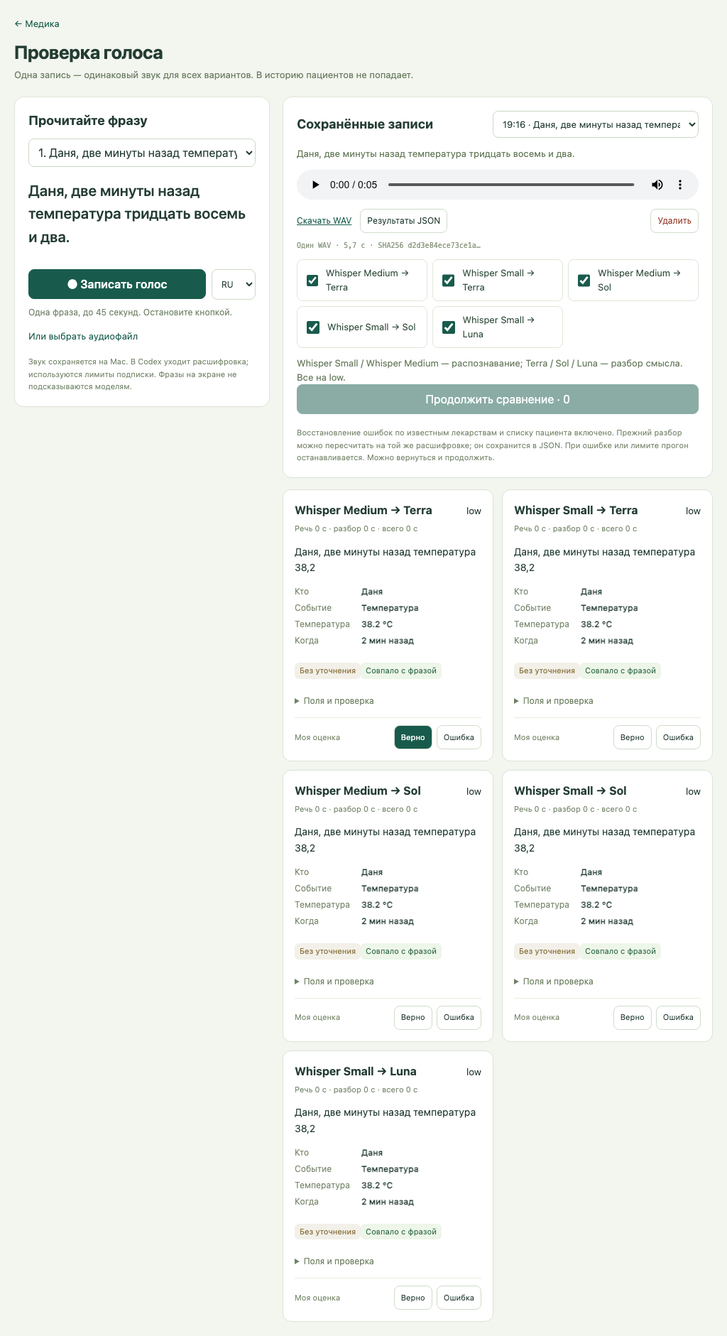
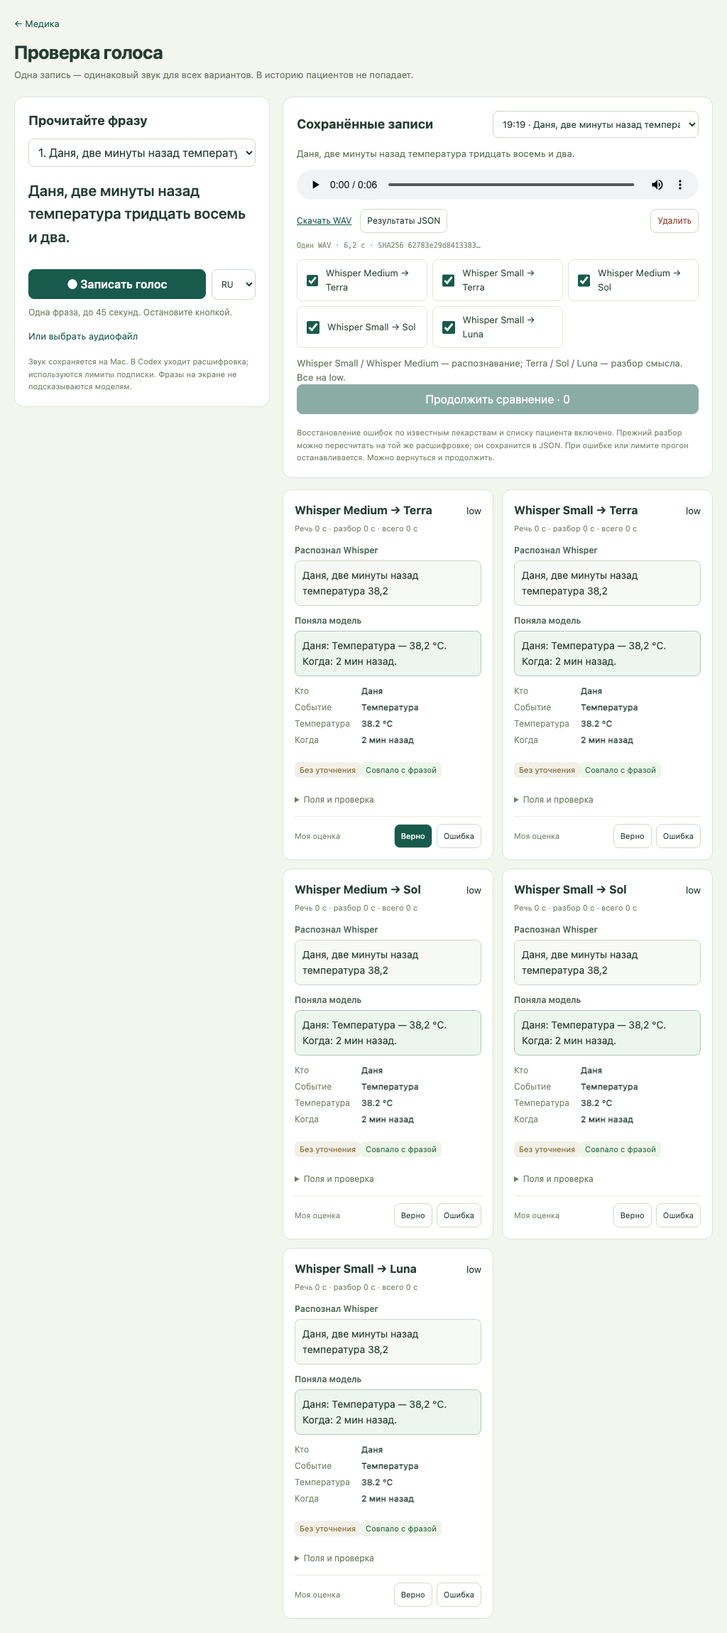
Show Whisper transcript and model interpretation as two text fields

diff --git a/site/public/voice-lab.js b/site/public/voice-lab.js
@@ -4,6 +4,7 @@ let state,token='',recording=null,capturedAt='',phraseId=localStorage.getItem('v
 let selected;try{selected=new Set(JSON.parse(localStorage.getItem('voice-lab-variants'))||['small-terra','medium-terra']);}catch{selected=new Set(['small-terra','medium-terra']);}
 const kinds={temperature:'Температура',medication:'Лекарство',retching:'Позывы к рвоте',vomiting:'Рвота',diarrhea:'Диарея',inhalation:'Ингаляция',other:'Другое'},people={'lab-danya':'Даня','lab-alice':'Алиса','lab-mom':'Мама','lab-dad':'Папа'};
 const secs=ms=>(ms/1000).toLocaleString('ru-RU',{maximumFractionDigits:1})+' с';
+function fitComparisonFields(){root.querySelectorAll('[data-comparison]').forEach(field=>{field.style.height='auto';field.style.height=field.scrollHeight+'px';});}
 const current=()=>state.recordings.find(r=>r.id===recordId),disabled=()=>busy||recording?'disabled':'';
 function notice(text){$('#notice').textContent=text;clearTimeout(notice.timer);notice.timer=setTimeout(()=>$('#notice').textContent='',8000);}
 async function api(path,body,method=body?'POST':'GET',retried=false){
@@ -15,6 +16,7 @@ async function refresh(){state=await api('');selected=new Set([...selected].map(
 function render(){
   const record=current(),phrase=state.phrases.find(p=>p.id===phraseId),remaining=[...selected].filter(id=>state.variants.some(v=>v.id===id&&v.ready)&&(record?.results[id]?.status!=='complete'||record.results[id].analysisKey!==state.analysisKey));
   root.innerHTML=`<section class="panel recorder"><h2>Прочитайте фразу</h2><select id="phrase" aria-label="Фраза для записи" ${disabled()}>${state.phrases.map((p,i)=>`<option value="${p.id}" ${p.id===phraseId?'selected':''}>${i+1}. ${e(p.text.slice(0,55))}</option>`).join('')}<option value="custom" ${phraseId==='custom'?'selected':''}>Своя фраза</option></select>${phraseId==='custom'?`<label for="custom">Что планируете сказать · необязательно</label><textarea id="custom" rows="3" ${disabled()}>${e(customPrompt)}</textarea>`:`<blockquote>${e(phrase?.text)}</blockquote>`}<div class="record-actions"><button class="${recording?'recording':'primary'}" data-act="mic" ${busy?'disabled':''}>${recording?'■ Сохранить запись':'● Записать голос'}</button><select id="language" aria-label="Язык" ${disabled()}><option value="ru" ${language==='ru'?'selected':''}>RU</option><option value="en" ${language==='en'?'selected':''}>EN</option></select></div><div class="record-status" role="status">${e(busy|| (recording?'Запись идёт…':'Одна фраза, до 45 секунд. Остановите кнопкой.'))}</div><label class="file-label">Или выбрать аудиофайл<input id="audio-file" type="file" accept=".wav,.m4a,.mp4,.aif,.aiff" ${disabled()}></label>${!window.isSecureContext?`<div class="secure-help"><p>Для микрофона откройте <a href="https://${e(location.hostname)}/voice-lab">HTTPS-страницу</a>.</p><details><summary>Настройка iPhone / iPad</summary><p><a href="/medika-ca.cer">Скачать сертификат</a> → установить профиль в настройках → Основные → Об этом устройстве → Доверие сертификатам → Medika Local Root.</p></details></div>`:''}<p class="privacy">Звук сохраняется на Mac. В Codex уходит расшифровка; используются лимиты подписки. Фразы на экране не подсказываются моделям.</p></section><div class="workspace"><section class="panel"><div class="saved-title"><h2>Сохранённые записи</h2><select id="saved" aria-label="Сохранённая запись" ${disabled()}><option value="">Выберите запись</option>${state.recordings.map(r=>`<option value="${r.id}" ${r.id===recordId?'selected':''}>${e(new Date(r.createdAt).toLocaleTimeString('ru-RU',{hour:'2-digit',minute:'2-digit'}))} · ${e(r.prompt?.slice(0,55)||'Своя фраза')}</option>`).join('')}</select></div>${record?`<p class="record-prompt">${e(record.prompt||'Своя фраза')}</p><audio controls preload="metadata" src="/api/voice-lab/recordings/${record.id}/audio"></audio><div class="record-tools"><a href="/api/voice-lab/recordings/${record.id}/audio" download="voice-${record.id}.wav">Скачать WAV</a><button data-act="export" ${disabled()}>Результаты JSON</button><button class="delete" data-act="delete" ${disabled()}>Удалить</button></div><p class="hash">Один WAV · ${secs(record.duration*1000)} · SHA256 ${e(record.audioSha256.slice(0,16))}…</p>`:'<p class="empty">Запишите фразу — она появится здесь.</p>'}<div class="variant-options">${state.variants.map(v=>`<label><input type="checkbox" data-variant="${v.id}" ${selected.has(v.id)?'checked':''} ${!v.ready||disabled()?'disabled':''}>${e(v.label)}${v.ready?'':' · недоступен'}</label>`).join('')}</div><p class="muted">Whisper Small / Whisper Medium — распознавание; Terra / Sol / Luna — разбор смысла. Все на low.</p><div class="compare-actions"><button class="primary" data-act="compare" ${disabled()||!record||!remaining.length?'disabled':''}>${record&&[...selected].some(id=>record.results[id])?'Продолжить сравнение':'Сравнить выбранные'} · ${remaining.length}</button>${busy.startsWith('Сравнение')?'<button data-act="stop">Стоп</button>':''}</div><p class="privacy">Восстановление ошибок по известным лекарствам и списку пациента включено. Прежний разбор можно пересчитать на той же расшифровке; он сохранится в JSON. При ошибке или лимите прогон останавливается. Можно вернуться и продолжить.</p></section><section class="results" aria-label="Сравнение вариантов">${record?state.variants.filter(v=>record.results[v.id]).map(v=>resultCard(v,record.results[v.id],record)).join('')||'<p class="empty">Выберите варианты и нажмите «Сравнить».</p>':''}</section></div>`;
+  fitComparisonFields();
   $('#phrase').onchange=event=>{phraseId=event.target.value;localStorage.setItem('voice-lab-phrase',phraseId);render();};
   if($('#custom'))$('#custom').oninput=event=>customPrompt=event.target.value;
   $('#language').onchange=event=>language=event.target.value;
@@ -26,7 +28,8 @@ function resultCard(variant,r,record){
   if(r.status!=='complete')return `<article class="result" data-result="${variant.id}"><h3>${e(variant.label)}</h3><p class="${r.status==='failed'?'error':'notes'}">${e(r.error||(r.status==='interrupted'?'Прогон прерван. Нажмите «Продолжить».':'Выполняется…'))}</p></article>`;
   const stale=r.analysisKey!==state.analysisKey;
   const d=r.draft,offset=d.occurredAt?Math.round((Date.parse(record.capturedAt)-Date.parse(d.occurredAt))/1000):null,when=offset===null?'Не разобрано':offset===0?'В момент записи':offset%60===0?`${offset/60} мин назад`:`${offset} с назад`;
-  return `<article class="result" data-result="${variant.id}"><div class="result-head"><h3>${e(variant.label)}</h3><small>low</small></div>${stale?'<p class="notes">Прежний разбор · нажмите «Продолжить сравнение» для восстановления названий.</p>':''}<p class="timing">Речь ${secs(r.asrMs)} · разбор ${secs(r.parseMs)} · всего ${secs(r.totalMs)}</p><p class="transcript">${e(r.transcript)}</p><dl><dt>Кто</dt><dd>${e(people[d.personId]||'Не разобрано')}</dd><dt>Событие</dt><dd>${e(kinds[d.kind])}</dd>${d.name?`<dt>Название</dt><dd>${e(d.name)}</dd>`:''}${d.celsius?`<dt>Температура</dt><dd>${e(d.celsius)} °C</dd>`:''}${d.amount?`<dt>Количество</dt><dd>${e(d.amount)} ${e(d.unit)}</dd>`:''}${d.strength?`<dt>Содержание</dt><dd>${e(d.strength)}</dd>`:''}<dt>Когда</dt><dd>${e(when)}</dd></dl><span class="badge">${d.canAutoRecord?'Без уточнения':'Нужно уточнение'}</span>${r.score?`<span class="badge ${r.score.passed?'good':'bad'}">${r.score.passed?'Совпало с фразой':'Есть расхождения'}</span>`:''}${d.notes.length?`<p class="notes">${d.notes.map(e).join('<br>')}</p>`:''}<details><summary>Поля и проверка</summary><pre>${e(JSON.stringify({model:r.model,audioSha256:r.audioSha256,draft:r.draft,score:r.score,asrCached:r.asrCached},null,2))}</pre></details><div class="verdict"><span>Моя оценка</span><button data-verdict="correct" data-id="${variant.id}" aria-pressed="${r.verdict==='correct'}" ${disabled()}>Верно</button><button data-verdict="wrong" data-id="${variant.id}" aria-pressed="${r.verdict==='wrong'}" ${disabled()}>Ошибка</button></div></article>`;
+  const understood=`${people[d.personId]||'Пациент не разобран'}: ${kinds[d.kind]||'Событие не разобрано'}${d.name?' — '+d.name:['medication','inhalation'].includes(d.kind)?' — название не разобрано':''}${d.celsius?' — '+d.celsius.replace('.',',')+' °C':''}.`+(['medication','inhalation'].includes(d.kind)?`\nКоличество: ${d.amount?d.amount.replace('.',',')+' '+d.unit:'не разобрано'}.${d.strength?' Содержание: '+d.strength+'.':''}`:'')+`\nКогда: ${when}.`+(!d.canAutoRecord?'\nНужно уточнение'+(d.notes.length?': '+d.notes.join(' '):'.'):'');
+  return `<article class="result" data-result="${variant.id}"><div class="result-head"><h3>${e(variant.label)}</h3><small>low</small></div>${stale?'<p class="notes">Прежний разбор · нажмите «Продолжить сравнение» для восстановления названий.</p>':''}<p class="timing">Речь ${secs(r.asrMs)} · разбор ${secs(r.parseMs)} · всего ${secs(r.totalMs)}</p><label class="comparison-label" for="asr-${variant.id}">Распознал Whisper</label><textarea id="asr-${variant.id}" class="comparison-text" data-comparison="asr" rows="2" readonly>${e(r.transcript)}</textarea><label class="comparison-label" for="meaning-${variant.id}">Поняла модель</label><textarea id="meaning-${variant.id}" class="comparison-text" data-comparison="meaning" rows="2" readonly>${e(understood)}</textarea><dl><dt>Кто</dt><dd>${e(people[d.personId]||'Не разобрано')}</dd><dt>Событие</dt><dd>${e(kinds[d.kind])}</dd>${d.name?`<dt>Название</dt><dd>${e(d.name)}</dd>`:''}${d.celsius?`<dt>Температура</dt><dd>${e(d.celsius)} °C</dd>`:''}${d.amount?`<dt>Количество</dt><dd>${e(d.amount)} ${e(d.unit)}</dd>`:''}${d.strength?`<dt>Содержание</dt><dd>${e(d.strength)}</dd>`:''}<dt>Когда</dt><dd>${e(when)}</dd></dl><span class="badge">${d.canAutoRecord?'Без уточнения':'Нужно уточнение'}</span>${r.score?`<span class="badge ${r.score.passed?'good':'bad'}">${r.score.passed?'Совпало с фразой':'Есть расхождения'}</span>`:''}${d.notes.length?`<p class="notes">${d.notes.map(e).join('<br>')}</p>`:''}<details><summary>Поля и проверка</summary><pre>${e(JSON.stringify({model:r.model,audioSha256:r.audioSha256,draft:r.draft,score:r.score,asrCached:r.asrCached},null,2))}</pre></details><div class="verdict"><span>Моя оценка</span><button data-verdict="correct" data-id="${variant.id}" aria-pressed="${r.verdict==='correct'}" ${disabled()}>Верно</button><button data-verdict="wrong" data-id="${variant.id}" aria-pressed="${r.verdict==='wrong'}" ${disabled()}>Ошибка</button></div></article>`;
 }
 async function saveAudio(file,at){
   if(!file||busy)return;if(file.size>8*1024*1024){notice('Запись больше 8 МБ');return;}busy='Сохраняю запись…';render();
@@ -48,5 +51,6 @@ root.addEventListener('click',async event=>{const b=event.target.closest('button
   if(act==='delete'&&confirm('Удалить эту аудиозапись и её результаты?')){await api('/recordings/'+recordId,undefined,'DELETE');recordId='';await refresh();}
   if(act==='export'){const record=current(),a=document.createElement('a');a.href=URL.createObjectURL(new Blob([JSON.stringify(record,null,2)],{type:'application/json'}));a.download='voice-comparison-'+record.id+'.json';a.click();setTimeout(()=>URL.revokeObjectURL(a.href),1000);}
 }catch(error){busy='';notice(error.message);render();}});
+window.addEventListener('resize',fitComparisonFields);
 window.addEventListener('pagehide',()=>{recording?.cancel();clearInterval(timer);stopRequested=true;});
 try{await refresh();}catch(error){root.innerHTML=`<p class="error">${e(error.message)} <a href="/voice-lab">Перезагрузить</a></p>`;}

diff --git a/site/public/voice-lab.css b/site/public/voice-lab.css
@@ -1,1 +1,3 @@
 :root{font:16px/1.5 -apple-system,BlinkMacSystemFont,"Segoe UI",sans-serif;color:#243d33;background:#f3f5ef}*{box-sizing:border-box}body{margin:0}header,main{max-width:1160px;margin:auto;padding:20px}header{padding-bottom:0}a{color:#185b4c}header>a{font-size:13px;text-decoration:none}h1{font-size:26px;margin:10px 0 3px;letter-spacing:-.6px}header>p,.muted{font-size:13px;color:#6b7d62;margin:0}main{display:grid;grid-template-columns:minmax(280px,360px) minmax(0,1fr);gap:18px;align-items:start}.panel{border:1px solid #dce5d6;border-radius:13px;background:#fff;padding:19px;min-width:0}.panel h2{font-size:18px;margin:0 0 12px}.workspace{display:grid;gap:16px;min-width:0}button,input,select,textarea{font:inherit;color:inherit}button,select{cursor:pointer}button{border:1px solid #cedcca;border-radius:8px;min-height:42px;padding:8px 12px;background:#fff}button:hover{background:#f0f5eb}button.primary{background:#185b4c;color:#fff;border-color:#185b4c}button.recording{background:#a04435;color:#fff;border-color:#a04435}button:disabled{opacity:.5;cursor:default}input:not([type=checkbox]),select,textarea{width:100%;border:1px solid #cbd9c4;border-radius:8px;background:#fff;padding:9px;font-size:16px}label{display:block;font-size:12px;color:#687b60;margin:10px 0 5px}blockquote{font-size:21px;line-height:1.55;font-weight:550;margin:17px 0;padding:0;overflow-wrap:anywhere;min-height:110px}.record-actions{display:flex;gap:8px;align-items:center}.record-actions .primary,.record-actions .recording{flex:1;font-size:16px;font-weight:600}.record-actions select{width:62px;min-height:43px;font-size:12px}.file-label{display:block;margin:13px 0 0;color:#185b4c;font-size:13px;cursor:pointer}.file-label input{display:none}.record-status{min-height:20px;font-size:12px;color:#75876c;margin-top:9px}.secure-help{padding:12px;background:#fff6e4;border-radius:8px;font-size:13px;margin-top:15px}.secure-help p{margin:6px 0}.privacy{font-size:11px;color:#7c8c73;line-height:1.6;margin:17px 0 0}.variant-options{display:grid;grid-template-columns:repeat(auto-fit,minmax(160px,1fr));gap:7px;margin:12px 0}.variant-options label{border:1px solid #e0e7d9;border-radius:8px;padding:9px;margin:0;display:flex;align-items:center;gap:8px;font-size:13px;color:#314d3c}.variant-options input{width:18px;height:18px;accent-color:#185b4c}.compare-actions{display:flex;gap:8px}.compare-actions .primary{flex:1}.saved-title{display:flex;align-items:center;justify-content:space-between;gap:12px}.saved-title h2{margin-bottom:0}.saved-title select{max-width:290px;font-size:13px}audio{display:block;width:100%;height:42px;margin:13px 0}.record-prompt{font-size:13px;color:#647a59;line-height:1.6;margin:12px 0;overflow-wrap:anywhere}.record-tools{display:flex;gap:12px;font-size:12px;align-items:center}.record-tools button{font-size:12px;min-height:34px;padding:5px 9px}.record-tools .delete{margin-left:auto;color:#9b4939}.hash{font-family:ui-monospace,monospace;font-size:10px;color:#8a987f;margin:10px 0 0;overflow-wrap:anywhere}.results{display:grid;grid-template-columns:repeat(auto-fit,minmax(250px,1fr));gap:12px}.result{background:#fff;border:1px solid #dae4d3;border-radius:12px;padding:16px;min-width:0}.result-head{display:flex;justify-content:space-between;gap:8px;align-items:baseline}.result h3{font-size:16px;margin:0}.result .timing{font-size:11px;color:#7b8c71;margin:6px 0 13px}.badge{display:inline-block;font-size:11px;padding:3px 7px;border-radius:6px;background:#f2f0e8;color:#89713e;margin:10px 0}.badge.good{color:#2c6743;background:#edf6e9}.badge.bad{color:#984d36;background:#fff0e7}.transcript{font-size:14px;line-height:1.6;margin:8px 0 14px;white-space:pre-wrap;overflow-wrap:anywhere}.result dl{display:grid;grid-template-columns:85px 1fr;gap:5px 9px;font-size:12px;margin:12px 0}.result dt{color:#7b8b71}.result dd{margin:0;overflow-wrap:anywhere;font-weight:550}.result details{font-size:12px;margin:12px 0}.result summary{cursor:pointer;color:#6f8264}.result pre{font-size:10px;white-space:pre-wrap;overflow-wrap:anywhere;max-height:280px;overflow:auto}.verdict{display:flex;align-items:center;gap:6px;border-top:1px solid #e7ecdf;padding-top:10px;margin-top:14px}.verdict span{font-size:11px;color:#7d8e72;margin-right:auto}.verdict button{font-size:11px;padding:5px 9px;min-height:34px}.verdict button[aria-pressed=true]{background:#185b4c;color:#fff}.empty{font-size:14px;color:#87977d;padding:23px 0;text-align:center}.notes,.error{font-size:12px;line-height:1.6;white-space:pre-wrap;overflow-wrap:anywhere}.error{color:#a04a35}.notes{color:#8a7544}#notice{position:fixed;bottom:18px;left:50%;transform:translateX(-50%);max-width:calc(100% - 28px);background:#234b38;color:#fff;border-radius:9px;padding:11px 16px;font-size:13px;z-index:5;margin:0;box-shadow:0 5px 25px #19382322}#notice:empty{display:none}button:focus-visible,a:focus-visible,select:focus-visible,input:focus-visible{outline:3px solid #94b6a0;outline-offset:3px}@media(max-width:760px){header,main{padding:15px}header{padding-bottom:0}main{grid-template-columns:1fr;gap:12px}.panel{padding:16px}blockquote{font-size:20px;min-height:0;margin:15px 0}.saved-title{align-items:start;flex-direction:column;gap:5px}.saved-title select{max-width:100%}.results{grid-template-columns:1fr}h1{font-size:24px}.variant-options{grid-template-columns:1fr 1fr}}@media(max-width:360px){.variant-options{grid-template-columns:1fr}.record-actions .primary,.record-actions .recording{font-size:14px}}
+
+.result .comparison-label{font-size:12px;font-weight:600;margin:12px 0 5px;color:#536e5d}.result .comparison-text{display:block;min-height:64px;padding:9px 10px;font-size:14px;line-height:1.6;resize:none;overflow:hidden;background:#f7f9f4}.result .comparison-text[data-comparison=meaning]{background:#edf5ef;border-color:#afcaba}textarea:focus-visible{outline:3px solid #94b6a0;outline-offset:3px}

diff --git a/PROJECT.md b/PROJECT.md
@@ -28,7 +28,7 @@
 
 Выбрать одну из шести фраз или «Своя фраза» → нажать «Записать голос» → прочитать → нажать «Сохранить запись». Паузы не обрывают запись; предел 45 секунд. Можно загрузить WAV/M4A/AIFF. Сохранённый WAV доступен для прослушивания и скачивания. Выбрать варианты и нажать «Сравнить выбранные». По умолчанию — Whisper Small → Terra и Whisper Medium → Terra; дополнительно доступны Whisper Small → Sol, Whisper Medium → Sol и Whisper Small → Luna, все модели смысла на low. Whisper Base исключён из рабочих вариантов и отклоняется API. Прямое аудио Sol не включено, поскольку предыдущие пробы не дали полезного разбора.
 
-Каждому варианту подаётся один и тот же сохранённый WAV; SHA256 виден на странице и в результате. Для одинакового Whisper расшифровка общая, для разных моделей смысла сравнивается её обработка. Показаны текст, человек, событие, значение/лекарство/доза/содержание, время и задержки. Сверка с выбранной фразой не передаётся моделям; пользователь может отдельно поставить «Верно»/«Ошибка». Для своей фразы автоматического эталона нет. Время «назад» всегда считается от момента записи.
+Каждому варианту подаётся один и тот же сохранённый WAV; SHA256 виден на странице и в результате. Для одинакового Whisper расшифровка общая, для разных моделей смысла сравнивается её обработка. В каждом результате два текстовых поля: «Распознал Whisper» — исходная расшифровка без исправлений, «Поняла модель» — связное представление возвращённых моделью полей (пациент, событие, препарат/количество/содержание и время; неясности указаны явно). Оба поля доступны для выделения/копирования, высота подстраивается под текст. Также показаны структурированные поля и задержки. Сверка с выбранной фразой не передаётся моделям; пользователь может отдельно поставить «Верно»/«Ошибка». Для своей фразы автоматического эталона нет. Время «назад» всегда считается от момента записи.
 
 Записи, расшифровки, результаты и оценки сохраняются в **site/data/voice-lab/** отдельно от медицинской базы. В события пациентов и клиническую резервную копию не входят. Для собственного сохранения доступны WAV и JSON; удаление на странице удаляет запись и результаты. Не добавлять реальные голосовые записи в Git/отчёты/скриншоты. Аудио остаётся на Mac; в Codex отправляется расшифровка и тестовый словарь из четырёх имён, без медицинской истории.
 
